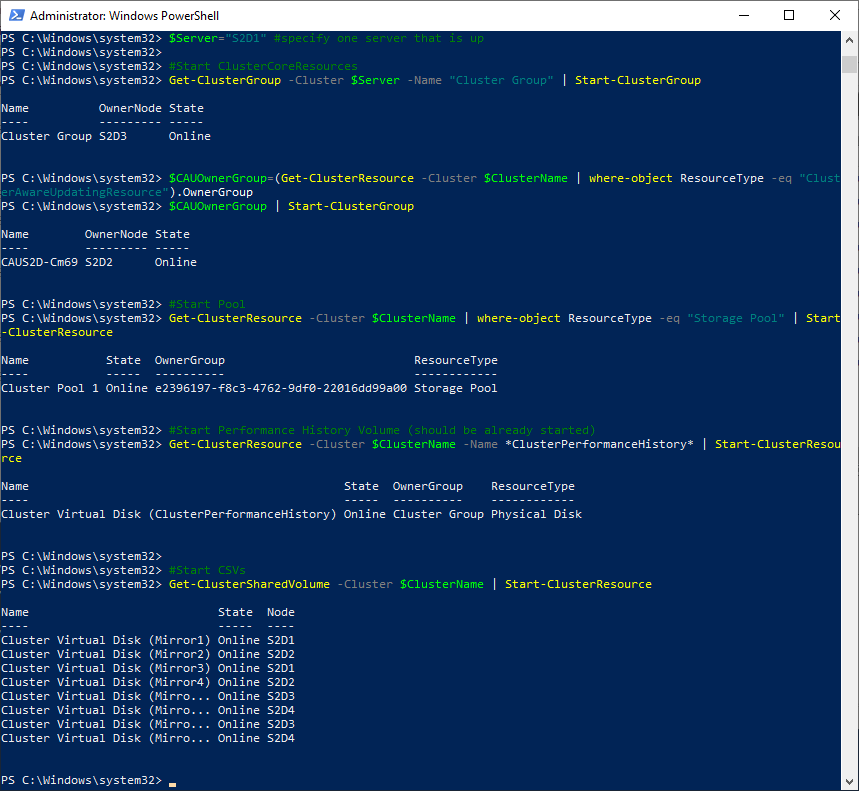
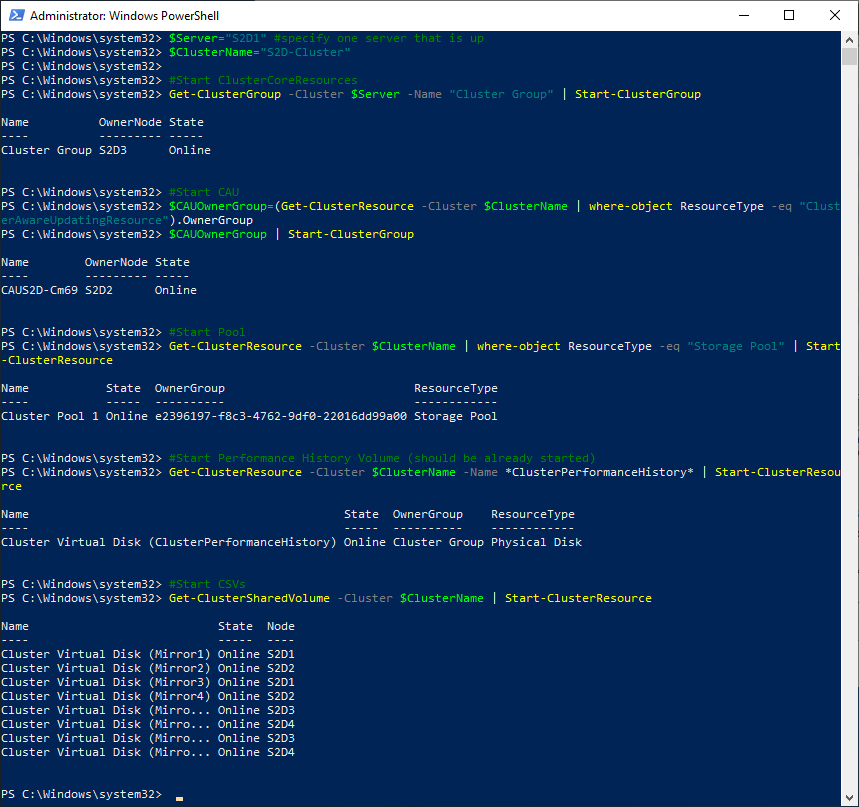
added more screenshots
Former-commit-id: a40b54e5048547b96e6443038a319388fcffd163

diff --git a/Scenarios/S2D and Emergency Patching/readme.md b/Scenarios/S2D and Emergency Patching/readme.md
@@ -236,6 +236,7 @@ You can notice that all cluster resources are down `Get-ClusterResource -Cluster
 
 ```PowerShell
 $Server="S2D1" #specify one server that is up
+$ClusterName="S2D-Cluster"
 
 #Start ClusterCoreResources
 Get-ClusterGroup -Cluster $Server -Name "Cluster Group" | Start-ClusterGroup
@@ -255,6 +256,10 @@ Get-ClusterSharedVolume -Cluster $ClusterName | Start-ClusterResource
 
 ### Start VMs
 
+Since all VM configurations are in failed state, it's needed to make it online first and then start all VMs
+
+![](/Scenarios/S2D%20and%20Emergency%20Patching/Screenshots/FailedVMResources.png)
+
 ```PowerShell
 $ClusterName="S2D-Cluster"
 $servers=(Get-ClusterNode -Cluster $ClusterName).Name
@@ -264,5 +269,8 @@ Get-ClusterResource -Cluster $ClusterName | Where State -eq Failed | Start-Clust
 
 #Start all VMs
 Start-VM -Name * -CimSession $servers
+Get-VM -CimSession $Servers
  
 ```
+
+![](/Scenarios/S2D%20and%20Emergency%20Patching/Screenshots/VMsRunningAgain.png)
